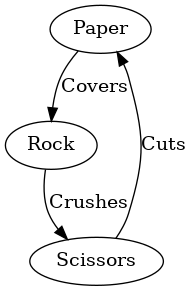
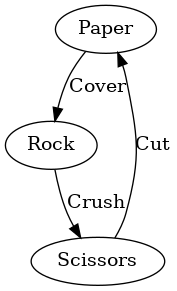
Docs: Elaborate on complex graphs

diff --git a/doc/basic.md b/doc/basic.md
@@ -139,9 +139,9 @@ by using `String`:
 ```haskell
 myGraph :: DGraph String String
 myGraph = fromArcsList
-    [ Arc "Paper" "Rock" "Covers"
-    , Arc "Rock" "Scissors" "Crushes"
-    , Arc "Scissors" "Paper" "Cuts"
+    [ Arc "Paper" "Rock" "Cover"
+    , Arc "Rock" "Scissors" "Crush"
+    , Arc "Scissors" "Paper" "Cut"
     ]
 ```
 
@@ -152,6 +152,11 @@ Remember that graphite can use any `Hashable` data type as vertices, so we could
 define our own data types, make them instances of `Hashable` and use it as
 vertices.
 
+Edge attributes on the other hand have no restriction and can be of any type.
+Though some functions will require the attributes to be `Weighted` or `Labeled`
+(type classes defined in Data.Graph.Types) if the nature of the algorithm
+requires it (like when computing shortest paths).
+
 Lets try this out. First define some data types:
 
 ```haskell
@@ -160,6 +165,7 @@ Lets try this out. First define some data types:
 import GHC.Generics (Generic)
 import Data.Hashable
 
+-- Data type for vertices
 data Element
     = Paper
     | Rock
@@ -168,13 +174,13 @@ data Element
 
 instance Hashable Element
 
+
+-- Data type for edge attributes
 data Action
     = Cover
     | Crush
     | Cut
-    deriving (Show, Ord, Eq, Generic)
-
-instance Hashable Action
+    deriving (Show, Ord, Eq)
 ```
 
 Although we could define `Hashable` instances manually, here we go for the
@@ -191,5 +197,8 @@ myGraph = fromArcsList
     , Arc Scissors  Paper       Cut
     ]
 ```
+
+![Paper-Rock-Scissors](./graphs/prs.png)
+
 
 # Working with graph-type independence
